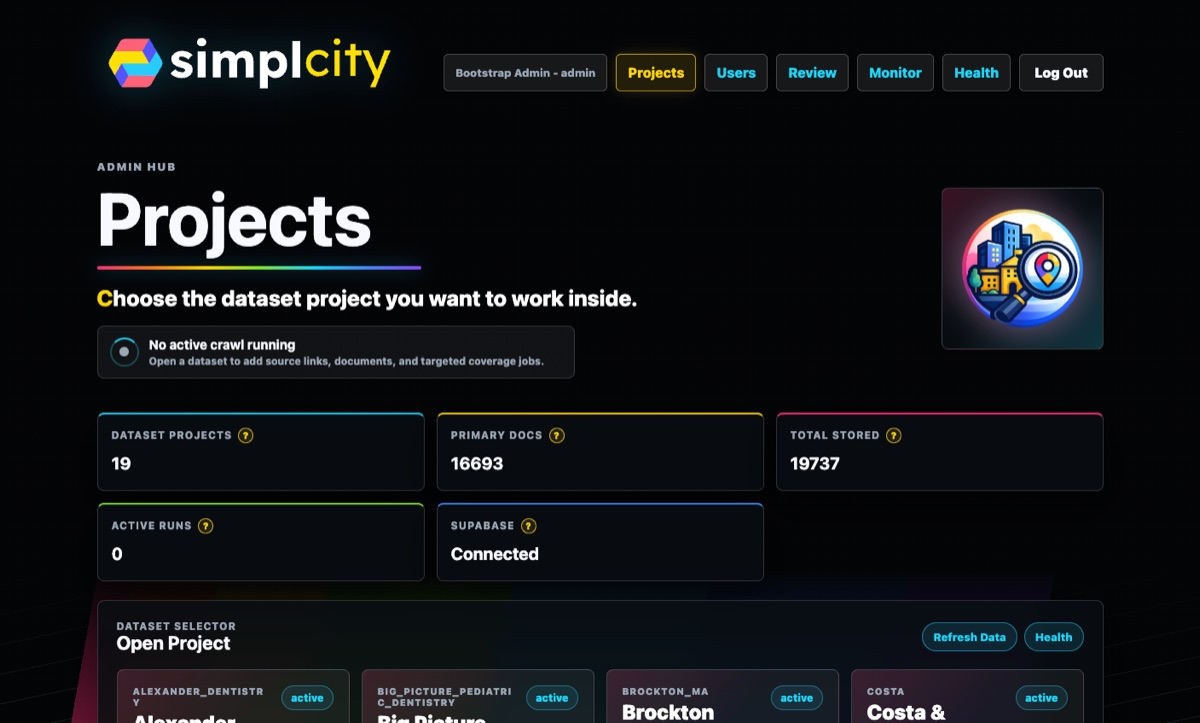
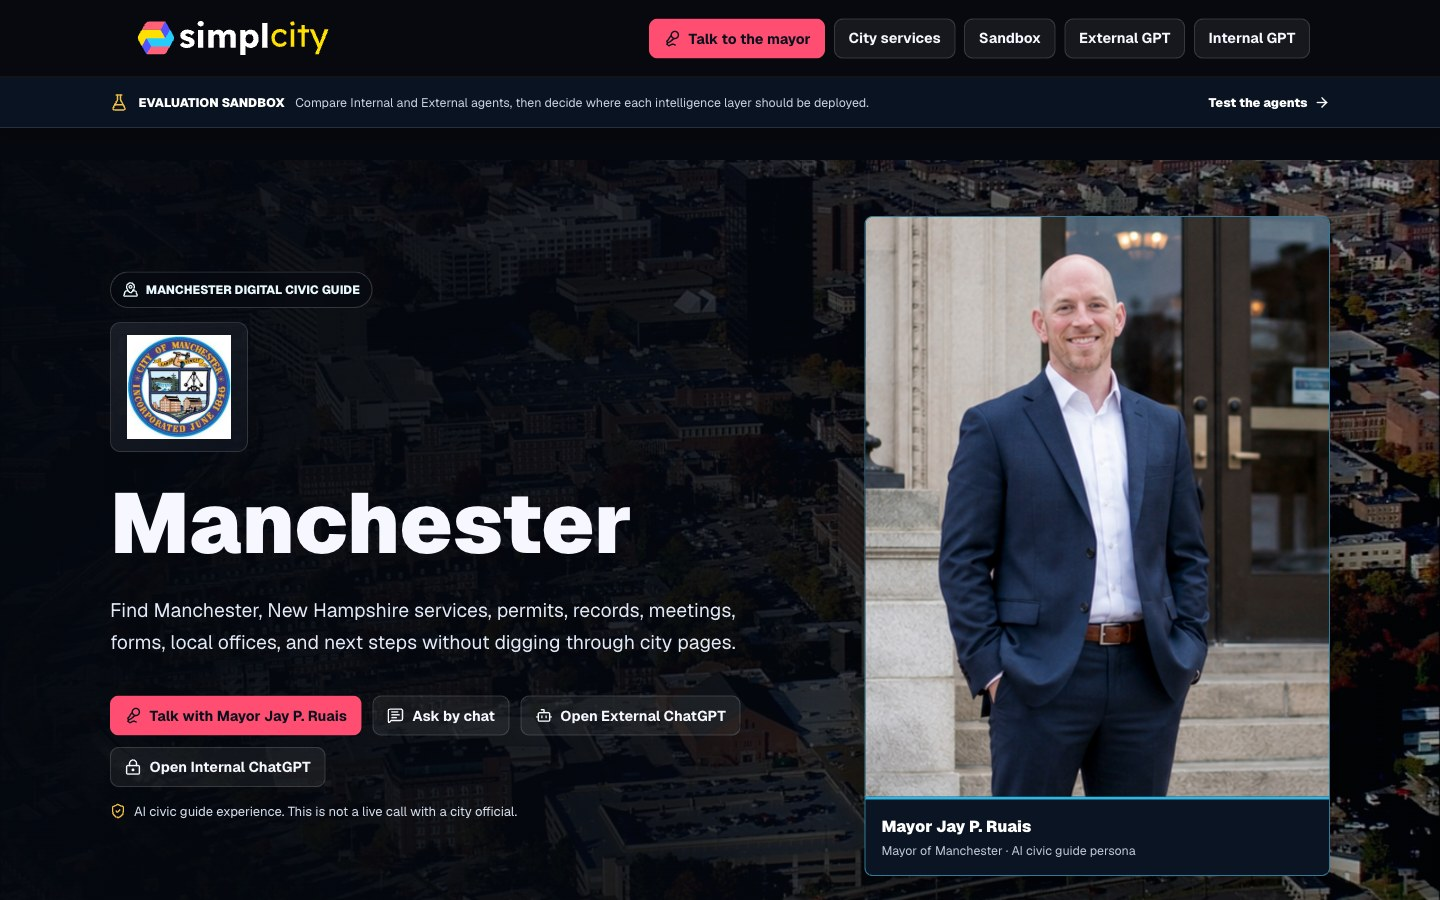
Clarify portfolio proof and add civic projects

diff --git a/src/app/globals.css b/src/app/globals.css
@@ -402,7 +402,7 @@ footer { padding: 5rem max(5vw, 1.25rem) 2rem; background: #02060c; color: #fff;
     #030914;
 }
 .home-proof-metric span { display: block; background: var(--gradient); background-clip: text; -webkit-background-clip: text; color: transparent; font-size: clamp(5rem, 10vw, 10rem); font-weight: 700; letter-spacing: -.09em; line-height: .78; }
-.home-proof-metric p { margin: 1.4rem 0 0; color: #7d8c9e; font-family: var(--font-mono), monospace; font-size: .65rem; letter-spacing: .12em; text-transform: uppercase; }
+.home-proof-metric p { margin: 1.4rem 0 0; color: #a8b9ca; font-family: var(--font-mono), monospace; font-size: clamp(.72rem, 1vw, .88rem); font-weight: 600; letter-spacing: .1em; line-height: 1.45; text-transform: uppercase; }
 .home-proof-copy h2 { max-width: 780px; margin-bottom: 1.5rem; font-size: clamp(2.8rem, 5vw, 5rem); font-weight: 650; letter-spacing: -.06em; line-height: .96; }
 .home-proof-copy h2 em { font-style: normal; background: var(--gradient); background-clip: text; -webkit-background-clip: text; color: transparent; }
 .home-proof-copy > p:not(.section-label) { max-width: 680px; margin-bottom: 2rem; color: var(--muted); }
@@ -455,10 +455,9 @@ footer { padding: 5rem max(5vw, 1.25rem) 2rem; background: #02060c; color: #fff;
 .agent-proof-card { overflow: hidden; border: 1px solid rgba(98, 159, 255, .32); border-radius: 1.6rem; padding: clamp(1.6rem, 3vw, 2.7rem); background: linear-gradient(145deg, rgba(12, 34, 50, .92), rgba(20, 16, 52, .92)); box-shadow: 0 35px 100px rgba(0, 0, 0, .38), 0 0 80px rgba(57, 119, 255, .12); }
 .agent-proof-card:after { position: absolute; right: -30%; bottom: -45%; width: 80%; aspect-ratio: 1; border-radius: 50%; background: rgba(94, 69, 246, .3); filter: blur(70px); content: ""; }
 .agent-proof-card > * { position: relative; z-index: 1; }
-.agent-proof-value { display: flex; align-items: flex-start; background: var(--gradient); background-clip: text; -webkit-background-clip: text; color: transparent; font-size: clamp(6.5rem, 11vw, 11rem); font-weight: 720; letter-spacing: -.1em; line-height: .8; }
-.agent-proof-value span { margin: .2em .04em 0 0; font-size: .35em; }
-.agent-proof-value sup { margin: .18em 0 0 .04em; font-size: .3em; letter-spacing: 0; }
-.agent-proof-card > p { margin: 1.5rem 0 0; color: #d8e5f2; font-size: .9rem; font-weight: 650; }
+.agent-proof-value { display: flex; align-items: baseline; background: var(--gradient); background-clip: text; -webkit-background-clip: text; color: transparent; font-size: clamp(6.2rem, 9vw, 9rem); font-weight: 740; letter-spacing: -.085em; line-height: .78; white-space: nowrap; }
+.agent-proof-value span { margin-left: .06em; font-size: .48em; letter-spacing: -.03em; }
+.agent-proof-card > p { margin: 1.65rem 0 0; color: #eef7ff; font-family: var(--font-mono), monospace; font-size: clamp(.82rem, 1.2vw, 1.05rem); font-weight: 650; letter-spacing: .08em; line-height: 1.4; text-transform: uppercase; }
 .agent-proof-line { position: relative; height: 2px; margin: 1.5rem 0; background: rgba(255, 255, 255, .12); }
 .agent-proof-line span { position: absolute; inset: 0 10% 0 0; background: var(--gradient); }
 .agent-proof-line i { position: absolute; top: -4px; right: 9%; width: 10px; height: 10px; border-radius: 50%; background: var(--cyan); box-shadow: 0 0 20px var(--cyan); }
@@ -743,6 +742,7 @@ footer { padding: 5rem max(5vw, 1.25rem) 2rem; background: #02060c; color: #fff;
   .portfolio-hero { padding-top: 8.5rem; }
   .portfolio-hero h1 { font-size: clamp(3.6rem, 17vw, 5.7rem); }
   .agent-proof-value { font-size: clamp(6rem, 34vw, 9rem); }
+  .agent-proof-card small { padding-right: 3.5rem; }
   .featured-sites-grid, .agent-method-steps, .portfolio-gallery-grid { grid-template-columns: 1fr; }
   .agent-method-steps article { min-height: 240px; }
   .portfolio-tools { align-items: stretch; flex-direction: column; }

diff --git a/src/app/portfolio/portfolio-gallery.tsx b/src/app/portfolio/portfolio-gallery.tsx
@@ -23,8 +23,8 @@ const work: WorkItem[] = [
   { title: "SimplScribe", image: "/portfolio/simplscribe.jpg", category: "AI products", description: "Conversation intelligence that turns calls into governed, usable work.", href: "https://www.simplsolutions.app/product/simplscribe", external: true, status: "Product experience" },
   { title: "SimplWiki", image: "/portfolio/simplwiki-product.jpg", category: "AI products", description: "A structured knowledge layer designed to make approved context usable.", href: "https://www.simplsolutions.app/platform", external: true, status: "Product experience" },
   { title: "SimplEngine", image: "/portfolio/simplengine-product.jpg", category: "Internal systems", description: "The command surface for building, reviewing, testing, and deploying intelligence layers.", href: "/start", status: "Private system" },
-  { title: "SimplCity", image: "/portfolio/simplcity.jpg", category: "Internal systems", description: "A project and dataset operating hub for large, governed knowledge collections.", href: "/start", status: "Private system" },
-  { title: "SimplDemocracy", image: "/portfolio/simpldemocracy.jpg", category: "AI products", description: "A civic-information concept built around understandable, source-grounded public knowledge.", href: "/start", status: "Concept system" },
+  { title: "SimplCity — Manchester, NH", image: "/portfolio/simplcity.jpg", category: "Client websites", description: "A conversational Manchester city guide for exploring local information, places, and services.", href: "https://simplsite.app/cities/manchester-new-hampshire#ask", external: true, status: "Live city experience" },
+  { title: "SimplDemocracy", image: "/portfolio/simpldemocracy.jpg", category: "AI products", description: "A civic-information platform built around understandable, source-grounded public knowledge.", href: "https://simpldemocracy.app/", external: true, status: "Live civic platform" },
   { title: "Baxter BBC Operating System", image: "/portfolio/baxter-bbc.jpg", category: "Internal systems", description: "A focused operating interface built around the team’s own working model.", href: "/start", status: "Private system" },
   { title: "Tire God Go-to-Market", image: "/portfolio/tire-god.jpg", category: "Campaigns", description: "A visual go-to-market operating surface for positioning, content, and execution.", href: "/start", status: "Strategy system" },
   { title: "SimplSolutions Product Portfolio", image: "/portfolio/simplsolutions.jpg", category: "AI products", description: "The connected product system behind a shared Business Brain.", href: "https://www.simplsolutions.app/", external: true, status: "Portfolio system" },

diff --git a/src/app/portfolio/page.tsx b/src/app/portfolio/page.tsx
@@ -48,6 +48,20 @@ const featured = [
     sector: "K–12 intelligence",
     summary: "A district-ready platform narrative built around governance, public trust, operational continuity, and pilot adoption.",
   },
+  {
+    name: "SimplDemocracy",
+    href: "https://simpldemocracy.app/",
+    image: "/portfolio/simpldemocracy.jpg",
+    sector: "Civic intelligence",
+    summary: "A public-facing civic information platform designed to make complex issues understandable, source-grounded, and easier to explore.",
+  },
+  {
+    name: "SimplCity — Manchester, NH",
+    href: "https://simplsite.app/cities/manchester-new-hampshire#ask",
+    image: "/portfolio/simplcity.jpg",
+    sector: "Municipal AI experience",
+    summary: "A Manchester-focused city guide that gives residents and visitors a conversational way to explore local information and services.",
+  },
 ];
 
 const itemListJsonLd = {
@@ -85,7 +99,7 @@ export default function PortfolioPage() {
           </div>
         </div>
         <div className="agent-proof-card">
-          <div className="agent-proof-value"><span>≈</span>90<sup>%</sup></div>
+          <div className="agent-proof-value" aria-label="95 percent agent-produced execution">95<span>%</span></div>
           <p>agent-produced execution</p>
           <div className="agent-proof-line"><span /><i /></div>
           <ul>
@@ -98,7 +112,7 @@ export default function PortfolioPage() {
 
       <section className="featured-work section-pad" id="featured-work">
         <div className="portfolio-section-heading">
-          <div><p className="section-label">/ Custom-built websites</p><h2>Four live examples.<br /><em>Four different problems.</em></h2></div>
+          <div><p className="section-label">/ Custom-built websites</p><h2>Six live examples.<br /><em>Six different problems.</em></h2></div>
           <p>These are not templates with a new logo. Each site was shaped around a different audience, business model, conversion path, and operating reality.</p>
         </div>
         <div className="featured-sites-grid">

diff --git a/src/app/page.tsx b/src/app/page.tsx
@@ -241,14 +241,14 @@ export default function Home() {
       </section>
 
       <section className="home-portfolio-proof section-pad">
-        <div className="home-proof-metric"><span>≈90%</span><p>agent-produced execution</p></div>
+        <div className="home-proof-metric"><span>95%</span><p>agent-produced execution</p></div>
         <div className="home-proof-copy">
           <SectionLabel>Selected work</SectionLabel>
           <h2>Real websites. Real systems. <em>Built differently.</em></h2>
-          <p>SimplSolutions, ECG Productions, DriveOn Protection, and SchoolAmplified are four custom websites built through the same agent-assisted delivery system—directed, reviewed, and approved by people.</p>
+          <p>SimplSolutions, ECG Productions, DriveOn Protection, SchoolAmplified, SimplDemocracy, and SimplCity Manchester are six live web experiences built through the same agent-assisted delivery system—directed, reviewed, and approved by people.</p>
           <Link className="button button-primary" href="/portfolio">Explore the portfolio <ArrowRight size={17} /></Link>
         </div>
-        <div className="home-proof-names"><span>SimplSolutions</span><span>ECG Productions</span><span>DriveOn Protection</span><span>SchoolAmplified</span></div>
+        <div className="home-proof-names"><span>SimplSolutions</span><span>ECG Productions</span><span>DriveOn Protection</span><span>SchoolAmplified</span><span>SimplDemocracy</span><span>SimplCity Manchester</span></div>
       </section>
 
       <section className="working-model section-pad" id="working-model">

diff --git a/DECISION_LOG.md b/DECISION_LOG.md
@@ -14,6 +14,8 @@
 | Paid pricing | Earlier sources used free and weekly offers | Guaranteed First Week is $350 once; monthly continuation is $1,000 | Jason's August 2, 2026 explicit direction |
 | Third-party assets | Earlier language said only that outside costs were additional | Default to client-owned, client-paid accounts established together on a call; if Jason or AutomateMeJay purchases, pays, or administratively manages an approved third-party service, charge the provider cost plus 25% | Jason's August 2, 2026 explicit direction |
 | Cross-platform access | Small-screen navigation previously disappeared and the site had no install metadata | Keep full navigation available on phones and tablets, support keyboard and touch access, respect device safe areas, and publish home-screen metadata and icons | Jason's August 2, 2026 explicit direction |
+| Agent-produced share | The portfolio previously displayed approximately 90% and the percent sign was visually unclear | Display 95% agent-produced execution prominently, retain the qualification that the share varies by project, and keep human direction and approval explicit | Jason's August 2, 2026 explicit direction |
+| Featured portfolio | The featured portfolio showed four projects and treated SimplCity and SimplDemocracy as non-public concepts | Feature six live experiences, including SimplDemocracy and SimplCity for Manchester, New Hampshire, and link both directly to their live destinations | Jason's August 2, 2026 explicit direction |
 | Guarantee UX | A refund must be simple without silently moving money on an AI agent's say-so | Verify the Stripe session and checkout email, record one binding refund request, notify Jason for processing to the original payment method, or create an affirmative monthly checkout | Current guarantee plus action-safety protocol |
 | Voice agent | Older scope deferred voice | Embed the current ElevenLabs React SDK at bottom right; disclose AI identity; use a curated public-safe KB and Jason's saved custom voice | Jason's current explicit direction |
 | Calendar actions | The assistant must see two calendars before booking | Check both connected Google calendars, require an exact 30-minute slot and explicit guest confirmation, re-check immediately before event creation, and audit every material action | Jason's current explicit direction and SimplSite protocols |

diff --git a/knowledge/automate-me-jay-public-agent-kb.md b/knowledge/automate-me-jay-public-agent-kb.md
@@ -67,14 +67,16 @@ Never describe the first week as free. Never describe the $350 payment as a recu
 
 The portfolio center at https://automatemejay.com/portfolio shows websites, systems, and product work created through Jason’s agent-assisted delivery process.
 
-Four highlighted custom websites are:
+Six highlighted live web experiences are:
 
 - SimplSolutions — https://www.simplsolutions.app/
 - ECG Productions — https://www.ecgprod.com/
 - DriveOn Protection — https://www.driveonprotection.com/
 - SchoolAmplified — https://www.schoolamplified.com/
+- SimplDemocracy — https://simpldemocracy.app/
+- SimplCity — Manchester, New Hampshire — https://simplsite.app/cities/manchester-new-hampshire#ask
 
-These sites were built using an agent-assisted system in which agents performed approximately 90% of the execution, while people directed the strategy, reviewed the work, made consequential decisions, and approved release. Describe that figure as an estimate or “approximately 90%,” not an independently audited measurement.
+These experiences were built using an agent-assisted system in which agents performed approximately 95% of the execution, while people directed the strategy, reviewed the work, made consequential decisions, and approved release. Describe that figure as an estimate or “approximately 95%,” not an independently audited measurement.
 
 ## Thirty-minute introduction meetings
 

diff --git a/SOURCE_OF_TRUTH.md b/SOURCE_OF_TRUTH.md
@@ -54,6 +54,8 @@ The public experience is a single server-rendered page with:
 
 The public experience must remain easy to reach and navigate across desktop, tablet, and phone browsers. Primary navigation stays available on small screens, interactive controls use touch-friendly targets, keyboard users receive visible focus and a skip link, safe-area insets are respected, and platform metadata supports saving the site to a device home screen.
 
+The portfolio presents 95% agent-produced execution as the current estimated share, with human direction, review, and release approval stated alongside it. Six live featured experiences are SimplSolutions, ECG Productions, DriveOn Protection, SchoolAmplified, SimplDemocracy, and SimplCity for Manchester, New Hampshire.
+
 Primary calls to action are `Start with the guarantee`, `Choose Monthly`, and `Sign In`.
 
 ## Client portal
